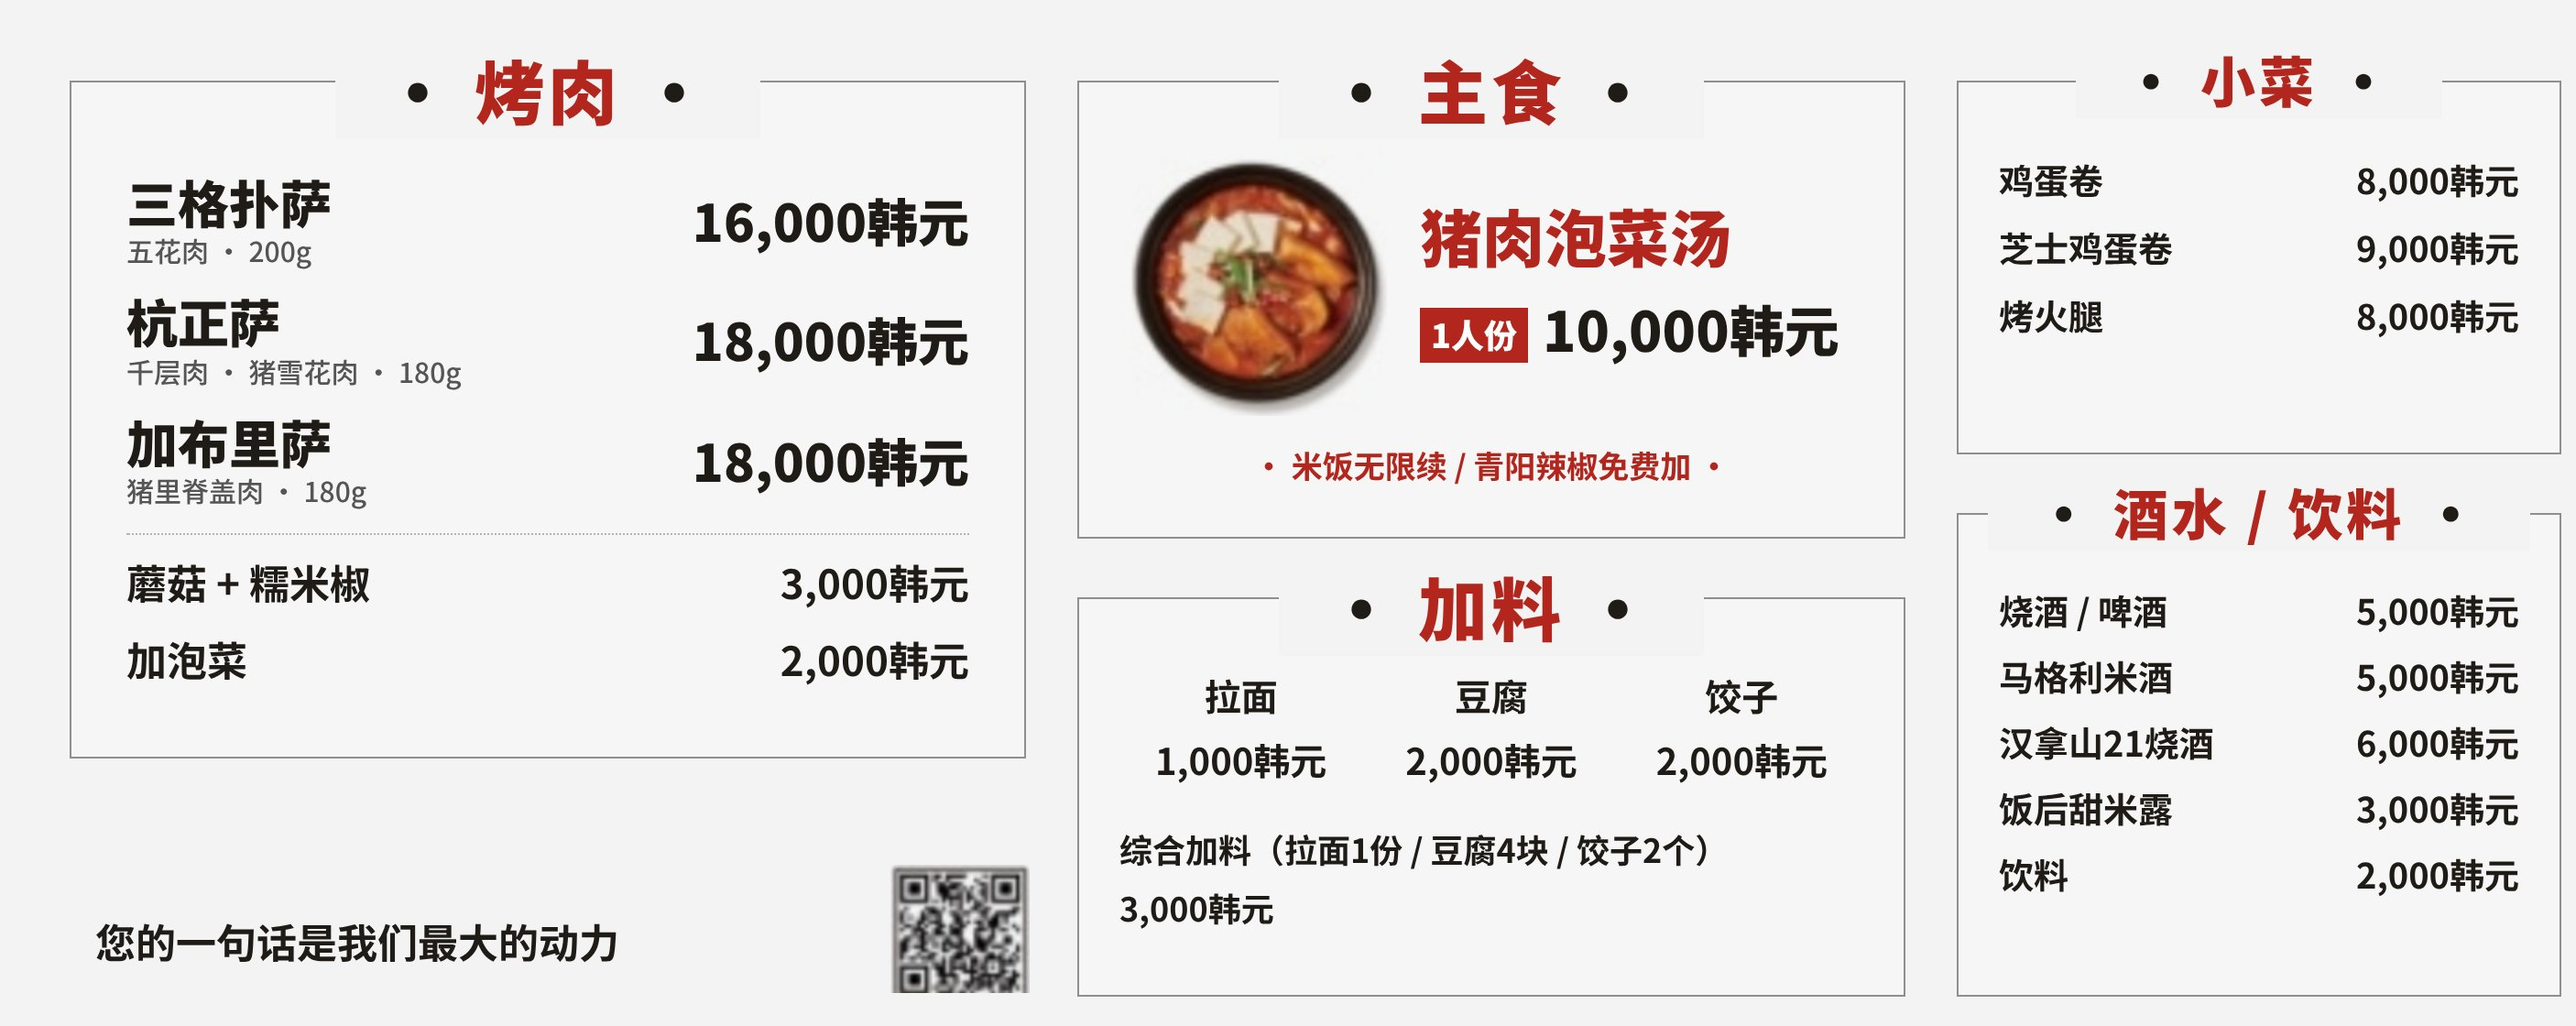
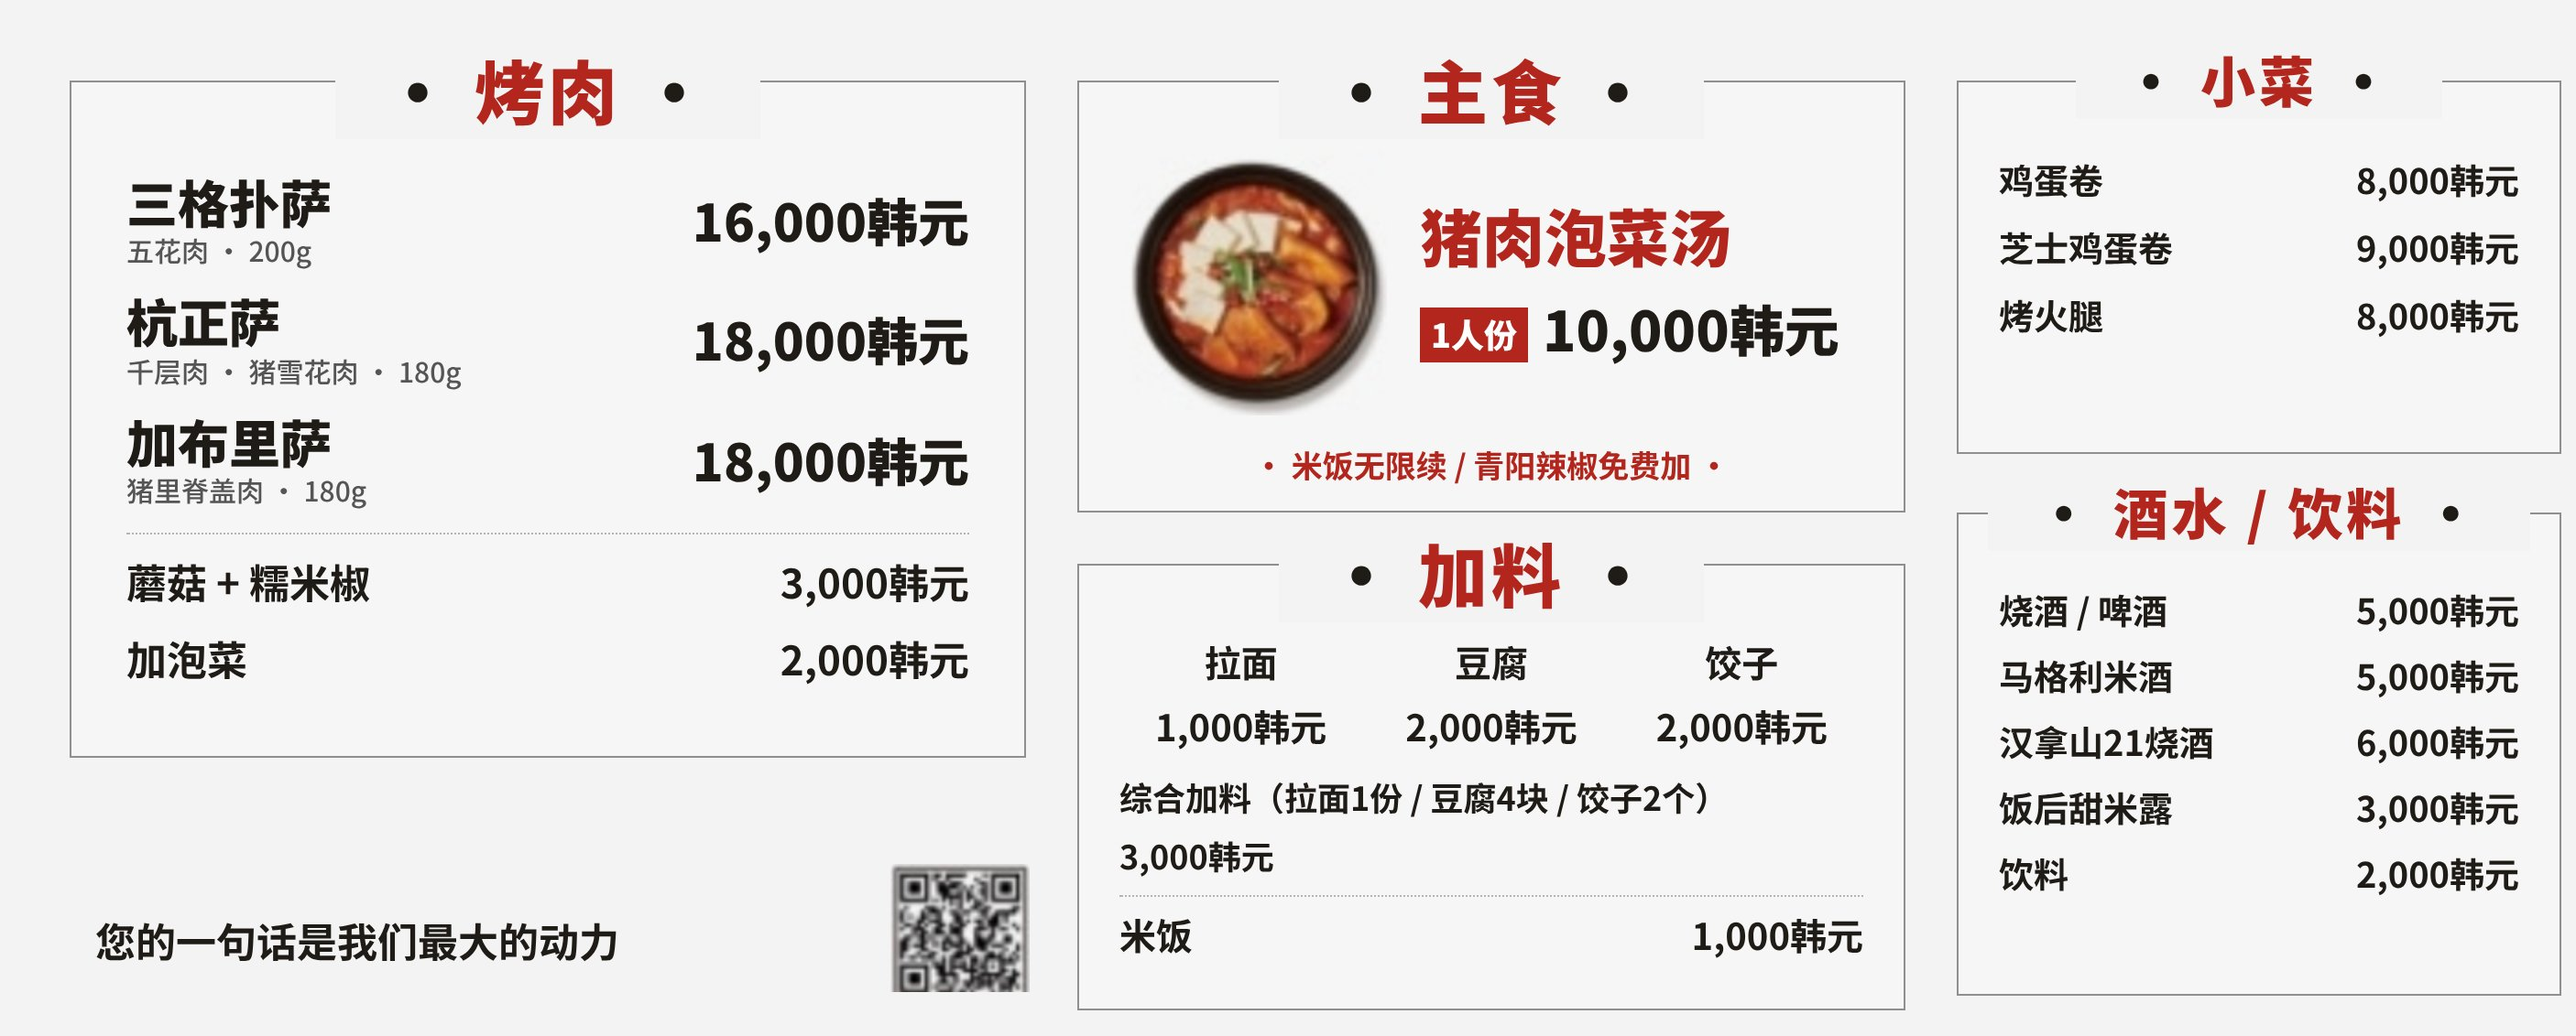
메뉴: 밥 1,000원 추가 (사리류 맨 아래, 메뉴판·손님 주문 화면)
Claude-Session: https://claude.ai/code/session_01CBZKrzwuzCBPBAMRFQdVMa

diff --git a/order.html b/order.html
@@ -28,7 +28,7 @@
 .hw{border-bottom:1px solid #eee7dd;padding:14px 0}.hw b{display:block;font-size:17px;margin-bottom:6px}.hw div{white-space:pre-wrap;font-size:16px;line-height:1.6}
 </style></head><body><div class="app" id="app"></div><div class="bar" id="bar"></div>
 <script>
-var D={"en": {"cut": {"belly": "pork belly · 200g", "jowl": "pork jowl · 180g", "collar": "pork loin cover · 180g"}, "nm": {"belly": "Samgyeopsal", "jowl": "Hangjeongsal", "collar": "Gabrisal", "mush": "Mushrooms + shishito peppers", "kim": "Extra kimchi", "stew": "Pork kimchi stew", "ramen": "Ramen", "tofu": "Tofu", "dump": "Dumplings", "combo": "Combo (ramen 1 / tofu 4 / dumplings 2)", "egg": "Rolled omelet", "cheese": "Cheese rolled omelet", "ham": "Grilled ham", "soju": "Soju / Beer", "makg": "Makgeolli (rice wine)", "halla": "Hallasan 21", "sik": "Sikhye (rice drink)", "soft": "Soft drinks"}, "title": ["Grilled Meat", "Meals", "Add-ons", "Side Dishes", "Drinks"], "ui": {"conf": "Confirm order", "cart": "My order", "edit": "Edit", "sel": "items", "tot": "Total", "show": "Show staff", "menu": "View menu", "how": "How to eat", "min": "Grilled meat: minimum 2 servings (you can mix cuts)", "minw": "Please order at least 2 servings of grilled meat", "close": "Close", "reset": "Clear all", "staff": "Please show this screen to our staff", "none": "Tap + to choose your food", "sub": "KRW"}, "note": "Free rice refills / Extra Cheongyang chili free", "one": "1 serving"}, "zh": {"cut": {"belly": "五花肉 · 200g", "jowl": "千层肉 · 猪雪花肉 · 180g", "collar": "猪里脊盖肉 · 180g"}, "nm": {"belly": "三格扑萨", "jowl": "杭正萨", "collar": "加布里萨", "mush": "蘑菇 + 糯米椒", "kim": "加泡菜", "stew": "猪肉泡菜汤", "ramen": "拉面", "tofu": "豆腐", "dump": "饺子", "combo": "综合加料（拉面1份 / 豆腐4块 / 饺子2个）", "egg": "鸡蛋卷", "cheese": "芝士鸡蛋卷", "ham": "烤火腿", "soju": "烧酒 / 啤酒", "makg": "马格利米酒", "halla": "汉拿山21烧酒", "sik": "饭后甜米露", "soft": "饮料"}, "title": ["烤肉", "主食", "加料", "小菜", "酒水 / 饮料"], "ui": {"conf": "确认点单", "cart": "我的点单", "edit": "修改", "sel": "项", "tot": "合计", "show": "给店员看", "menu": "查看菜单", "how": "吃法说明", "min": "烤肉最少点2人份（可混合不同部位）", "minw": "烤肉请至少点2人份", "close": "关闭", "reset": "全部清空", "staff": "请把这个画面给店员看", "none": "点 + 选择菜品", "sub": "韩元"}, "note": "米饭无限续 / 青阳辣椒免费加", "one": "1人份"}, "ja": {"cut": {"belly": "豚バラ肉 · 200g", "jowl": "別名 トンチャドル · 180g", "collar": "豚ロースのかぶり肉 · 180g"}, "nm": {"belly": "サムギョプサル", "jowl": "ハンジョンサル", "collar": "カブリサル", "mush": "きのこ + ししとう", "kim": "キムチ追加", "stew": "豚キムチチゲ", "ramen": "ラーメン", "tofu": "豆腐", "dump": "餃子", "combo": "盛り合わせ（ラーメン1 / 豆腐4 / 餃子2）", "egg": "韓国風卵焼き", "cheese": "チーズ卵焼き", "ham": "ハム焼き", "soju": "焼酎 / ビール", "makg": "マッコリ", "halla": "ハルラサン21", "sik": "食後のシッケ", "soft": "ソフトドリンク"}, "title": ["焼肉", "お食事", "追加トッピング", "サイド", "ドリンク"], "ui": {"conf": "注文を確認", "cart": "ご注文内容", "edit": "修正", "sel": "点", "tot": "合計", "show": "スタッフに見せる", "menu": "メニューを見る", "how": "食べ方", "min": "焼肉は2人前からご注文いただけます（部位の組み合わせ可）", "minw": "焼肉は2人前以上でご注文ください", "close": "閉じる", "reset": "すべてクリア", "staff": "この画面をスタッフにお見せください", "none": "＋を押して選んでください", "sub": "ウォン"}, "note": "ご飯おかわり自由 / 青陽唐辛子の追加無料", "one": "1人前"}, "th": {"cut": {"belly": "หมูสามชั้น · 200g", "jowl": "ชอนกยอบซัล, ดนชาดล · 180g", "collar": "เนื้อส่วนบนของสันนอก · 180g"}, "nm": {"belly": "ซัมกยอบซัล", "jowl": "ฮังจองซัล", "collar": "คาบรีซัล", "mush": "เห็ด + พริกชิชิโตะ", "kim": "เพิ่มกิมจิ", "stew": "ซุปกิมจิหมู", "ramen": "ราเมง", "tofu": "เต้าหู้", "dump": "เกี๊ยว", "combo": "ท็อปปิ้งรวม (ราเมง 1 / เต้าหู้ 4 / เกี๊ยว 2)", "egg": "ไข่ม้วน", "cheese": "ไข่ม้วนชีส", "ham": "แฮมย่าง", "soju": "โซจู / เบียร์", "makg": "มักกอลลี", "halla": "ฮัลลาซาน 21", "sik": "ชิกเฮ น้ำข้าวหวาน", "soft": "น้ำอัดลม"}, "title": ["หมูย่าง", "อาหารจานหลัก", "ท็อปปิ้งเพิ่ม", "เมนูเคียง", "เครื่องดื่ม"], "ui": {"conf": "ยืนยันรายการ", "cart": "รายการของฉัน", "edit": "แก้ไข", "sel": "รายการ", "tot": "รวม", "show": "แสดงให้พนักงานดู", "menu": "ดูเมนู", "how": "วิธีทาน", "min": "หมูย่างสั่งขั้นต่ำ 2 ที่ (เลือกผสมได้)", "minw": "กรุณาสั่งหมูย่างอย่างน้อย 2 ที่", "close": "ปิด", "reset": "ล้างทั้งหมด", "staff": "กรุณาแสดงหน้านี้ให้พนักงานดู", "none": "กด + เพื่อเลือกอาหาร", "sub": "วอน"}, "note": "ข้าวเติมฟรีไม่อั้น / เพิ่มพริกชองยางฟรี", "one": "1 ที่"}};var G=[["bbq", 0, [["belly", "삼겹살 (200g)", 16000], ["jowl", "항정살 (180g)", 18000], ["collar", "가브리살 (180g)", 18000], ["mush", "버섯 + 꽈리고추", 3000], ["kim", "김치 추가", 2000]]], ["meal", 1, [["stew", "돼지김치찌개 (1인)", 10000]]], ["add", 2, [["ramen", "라면사리", 1000], ["tofu", "두부사리", 2000], ["dump", "만두사리", 2000], ["combo", "모둠사리", 3000]]], ["side", 3, [["egg", "달걀말이", 8000], ["cheese", "치즈달걀말이", 9000], ["ham", "햄구이", 8000]]], ["drink", 4, [["soju", "소주 / 맥주", 5000], ["makg", "막걸리", 5000], ["halla", "한라산21", 6000], ["sik", "식후식혜", 3000], ["soft", "음료", 2000]]]];
+var D={"en": {"cut": {"belly": "pork belly · 200g", "jowl": "pork jowl · 180g", "collar": "pork loin cover · 180g"}, "nm": {"belly": "Samgyeopsal", "jowl": "Hangjeongsal", "collar": "Gabrisal", "mush": "Mushrooms + shishito peppers", "kim": "Extra kimchi", "stew": "Pork kimchi stew", "ramen": "Ramen", "tofu": "Tofu", "dump": "Dumplings", "combo": "Combo (ramen 1 / tofu 4 / dumplings 2)", "rice": "Rice", "egg": "Rolled omelet", "cheese": "Cheese rolled omelet", "ham": "Grilled ham", "soju": "Soju / Beer", "makg": "Makgeolli (rice wine)", "halla": "Hallasan 21", "sik": "Sikhye (rice drink)", "soft": "Soft drinks"}, "title": ["Grilled Meat", "Meals", "Add-ons", "Side Dishes", "Drinks"], "ui": {"conf": "Confirm order", "cart": "My order", "edit": "Edit", "sel": "items", "tot": "Total", "show": "Show staff", "menu": "View menu", "how": "How to eat", "min": "Grilled meat: minimum 2 servings (you can mix cuts)", "minw": "Please order at least 2 servings of grilled meat", "close": "Close", "reset": "Clear all", "staff": "Please show this screen to our staff", "none": "Tap + to choose your food", "sub": "KRW"}, "note": "Free rice refills / Extra Cheongyang chili free", "one": "1 serving"}, "zh": {"cut": {"belly": "五花肉 · 200g", "jowl": "千层肉 · 猪雪花肉 · 180g", "collar": "猪里脊盖肉 · 180g"}, "nm": {"belly": "三格扑萨", "jowl": "杭正萨", "collar": "加布里萨", "mush": "蘑菇 + 糯米椒", "kim": "加泡菜", "stew": "猪肉泡菜汤", "ramen": "拉面", "tofu": "豆腐", "dump": "饺子", "combo": "综合加料（拉面1份 / 豆腐4块 / 饺子2个）", "rice": "米饭", "egg": "鸡蛋卷", "cheese": "芝士鸡蛋卷", "ham": "烤火腿", "soju": "烧酒 / 啤酒", "makg": "马格利米酒", "halla": "汉拿山21烧酒", "sik": "饭后甜米露", "soft": "饮料"}, "title": ["烤肉", "主食", "加料", "小菜", "酒水 / 饮料"], "ui": {"conf": "确认点单", "cart": "我的点单", "edit": "修改", "sel": "项", "tot": "合计", "show": "给店员看", "menu": "查看菜单", "how": "吃法说明", "min": "烤肉最少点2人份（可混合不同部位）", "minw": "烤肉请至少点2人份", "close": "关闭", "reset": "全部清空", "staff": "请把这个画面给店员看", "none": "点 + 选择菜品", "sub": "韩元"}, "note": "米饭无限续 / 青阳辣椒免费加", "one": "1人份"}, "ja": {"cut": {"belly": "豚バラ肉 · 200g", "jowl": "別名 トンチャドル · 180g", "collar": "豚ロースのかぶり肉 · 180g"}, "nm": {"belly": "サムギョプサル", "jowl": "ハンジョンサル", "collar": "カブリサル", "mush": "きのこ + ししとう", "kim": "キムチ追加", "stew": "豚キムチチゲ", "ramen": "ラーメン", "tofu": "豆腐", "dump": "餃子", "combo": "盛り合わせ（ラーメン1 / 豆腐4 / 餃子2）", "rice": "ご飯", "egg": "韓国風卵焼き", "cheese": "チーズ卵焼き", "ham": "ハム焼き", "soju": "焼酎 / ビール", "makg": "マッコリ", "halla": "ハルラサン21", "sik": "食後のシッケ", "soft": "ソフトドリンク"}, "title": ["焼肉", "お食事", "追加トッピング", "サイド", "ドリンク"], "ui": {"conf": "注文を確認", "cart": "ご注文内容", "edit": "修正", "sel": "点", "tot": "合計", "show": "スタッフに見せる", "menu": "メニューを見る", "how": "食べ方", "min": "焼肉は2人前からご注文いただけます（部位の組み合わせ可）", "minw": "焼肉は2人前以上でご注文ください", "close": "閉じる", "reset": "すべてクリア", "staff": "この画面をスタッフにお見せください", "none": "＋を押して選んでください", "sub": "ウォン"}, "note": "ご飯おかわり自由 / 青陽唐辛子の追加無料", "one": "1人前"}, "th": {"cut": {"belly": "หมูสามชั้น · 200g", "jowl": "ชอนกยอบซัล, ดนชาดล · 180g", "collar": "เนื้อส่วนบนของสันนอก · 180g"}, "nm": {"belly": "ซัมกยอบซัล", "jowl": "ฮังจองซัล", "collar": "คาบรีซัล", "mush": "เห็ด + พริกชิชิโตะ", "kim": "เพิ่มกิมจิ", "stew": "ซุปกิมจิหมู", "ramen": "ราเมง", "tofu": "เต้าหู้", "dump": "เกี๊ยว", "combo": "ท็อปปิ้งรวม (ราเมง 1 / เต้าหู้ 4 / เกี๊ยว 2)", "rice": "ข้าวสวย", "egg": "ไข่ม้วน", "cheese": "ไข่ม้วนชีส", "ham": "แฮมย่าง", "soju": "โซจู / เบียร์", "makg": "มักกอลลี", "halla": "ฮัลลาซาน 21", "sik": "ชิกเฮ น้ำข้าวหวาน", "soft": "น้ำอัดลม"}, "title": ["หมูย่าง", "อาหารจานหลัก", "ท็อปปิ้งเพิ่ม", "เมนูเคียง", "เครื่องดื่ม"], "ui": {"conf": "ยืนยันรายการ", "cart": "รายการของฉัน", "edit": "แก้ไข", "sel": "รายการ", "tot": "รวม", "show": "แสดงให้พนักงานดู", "menu": "ดูเมนู", "how": "วิธีทาน", "min": "หมูย่างสั่งขั้นต่ำ 2 ที่ (เลือกผสมได้)", "minw": "กรุณาสั่งหมูย่างอย่างน้อย 2 ที่", "close": "ปิด", "reset": "ล้างทั้งหมด", "staff": "กรุณาแสดงหน้านี้ให้พนักงานดู", "none": "กด + เพื่อเลือกอาหาร", "sub": "วอน"}, "note": "ข้าวเติมฟรีไม่อั้น / เพิ่มพริกชองยางฟรี", "one": "1 ที่"}};var G=[["bbq", 0, [["belly", "삼겹살 (200g)", 16000], ["jowl", "항정살 (180g)", 18000], ["collar", "가브리살 (180g)", 18000], ["mush", "버섯 + 꽈리고추", 3000], ["kim", "김치 추가", 2000]]], ["meal", 1, [["stew", "돼지김치찌개 (1인)", 10000]]], ["add", 2, [["ramen", "라면사리", 1000], ["tofu", "두부사리", 2000], ["dump", "만두사리", 2000], ["combo", "모둠사리", 3000], ["rice", "밥", 1000]]], ["side", 3, [["egg", "달걀말이", 8000], ["cheese", "치즈달걀말이", 9000], ["ham", "햄구이", 8000]]], ["drink", 4, [["soju", "소주 / 맥주", 5000], ["makg", "막걸리", 5000], ["halla", "한라산21", 6000], ["sik", "식후식혜", 3000], ["soft", "음료", 2000]]]];
 var TR_LANGS=[['en','영어'],['zh','중국어'],['ja','일본어'],['th','태국어']];
 var TR_SUB={en:'English',zh:'中文',ja:'日本語',th:'ภาษาไทย'};
 var TRANS=[
